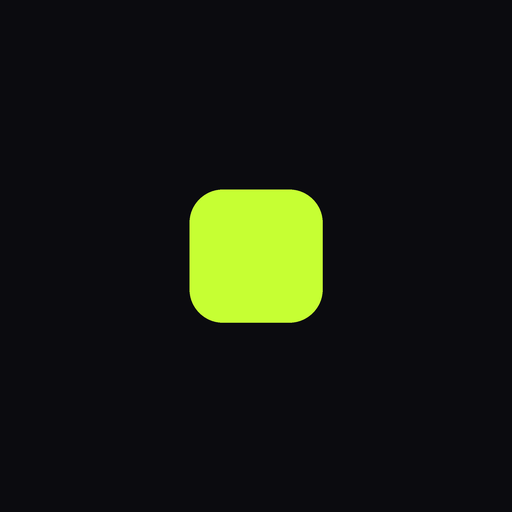
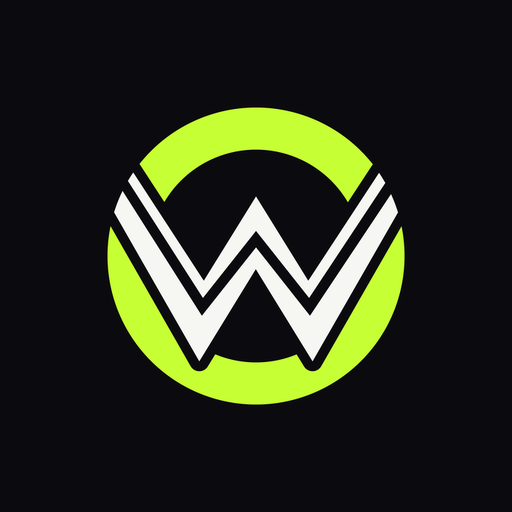
preview 10-21 18:21

Changed region(s): [[0.1875, 0.1875, 0.8125, 0.8125]]

diff --git a/OWCS KR 일정.html b/OWCS KR 일정.html
@@ -158,7 +158,7 @@ html[data-owcs-dark] .pill.done{background:#24242C}
 html[data-owcs-dark] .sc{box-shadow:inset 0 0 0 1px #2E2E37}
 html[data-owcs-dark] .eyebrow,html[data-owcs-dark] .day.today .dd b{color:#B89BFF}
 </style>
-<script src="./owcs-nav.js?v=1021154040"></script>
+<script src="./owcs-nav.js?v=1021182125"></script>
 </head>
 <body class="streams-page sched-page">
 <header><div class="wrap">
@@ -184,12 +184,12 @@ html[data-owcs-dark] .eyebrow,html[data-owcs-dark] .day.today .dd b{color:#B89BF
 </main>
 <footer class="owft"><div class="wrap ft-g"><div><div class="ft-logo"><span class="owt"><b>OW</b>TICKER</span></div><div class="ft-desc">OWCS 한국 경기의 일정, 결과, 선수 정보를 한국 팬을 위해 한곳에 모았어요.</div><div class="ft-ch"><span class="ft-k">OWCS 공식 채널</span><a href="https://x.com/OW_Esports_Asia" target="_blank" rel="noopener"><img src="assets/icons/x.png" alt="">X</a><a href="https://www.instagram.com/ow_esports_kr/" target="_blank" rel="noopener"><img src="assets/icons/instagram.png" alt="">Instagram</a><a href="https://www.sooplive.co.kr/station/owesports" target="_blank" rel="noopener"><img src="assets/icons/soop.png" alt="">SOOP 방송국</a></div></div><div><div class="ft-k">문의</div><a class="ft-mail" href="mailto:dlworhs26@gmail.com">dlworhs26@gmail.com</a></div><div class="ft-note">일정은 Liquipedia에서 10분마다 가져와요. 비공식 팬 사이트입니다. Blizzard Entertainment, WDG, 각 팀과 제휴하거나 승인받지 않았습니다. Overwatch®와 영웅 이미지는 Blizzard Entertainment, Inc.의 상표·저작물이고, 팀 로고와 선수 사진의 권리는 각 소유자에게 있으며 요청하면 바로 내립니다.</div></div></footer>
 
-<script src="./owcs-data.js?v=1021154040"></script>
-<script src="./owcs-phase.js?v=1021154040"></script>
-<script src="./owcs-i18n.js?v=1021154040"></script>
-<script src="./owcs-stats.js?v=1021154040"></script>
-<script src="./owcs-dark.js?v=1021154040"></script>
-<script src="./owcs-bracket.js?v=1021154040"></script>
+<script src="./owcs-data.js?v=1021182125"></script>
+<script src="./owcs-phase.js?v=1021182125"></script>
+<script src="./owcs-i18n.js?v=1021182125"></script>
+<script src="./owcs-stats.js?v=1021182125"></script>
+<script src="./owcs-dark.js?v=1021182125"></script>
+<script src="./owcs-bracket.js?v=1021182125"></script>
 <script>
 (function () {
   var D = window.OWCS || { teams: [], matches: [] };
@@ -391,6 +391,6 @@ html[data-owcs-dark] .eyebrow,html[data-owcs-dark] .day.today .dd b{color:#B89BF
   setTeam(F.team);
 })();
 </script>
-<script src="./owcs-theme-wise.js?v=1021154040"></script>
+<script src="./owcs-theme-wise.js?v=1021182125"></script>
 </body>
 </html>

diff --git a/OWCS KR 방송.html b/OWCS KR 방송.html
@@ -91,7 +91,7 @@ footer{padding:32px 0 56px;background:#0B0B0F;color:#8A8A93;font-size:13px;line-
   .who small,.go{display:none}
 }
 </style>
-<script src="./owcs-nav.js?v=1021154040"></script>
+<script src="./owcs-nav.js?v=1021182125"></script>
 </head>
 <body class="streams-page">
 <header><div class="wrap">
@@ -114,12 +114,12 @@ footer{padding:32px 0 56px;background:#0B0B0F;color:#8A8A93;font-size:13px;line-
 </main>
 <footer class="owft"><div class="wrap ft-g"><div><div class="ft-logo"><span class="owt"><b>OW</b>TICKER</span></div><div class="ft-desc">OWCS 한국 경기의 일정, 결과, 선수 정보를 한국 팬을 위해 한곳에 모았어요.</div><div class="ft-ch"><span class="ft-k">OWCS 공식 채널</span><a href="https://x.com/OW_Esports_Asia" target="_blank" rel="noopener"><img src="assets/icons/x.png" alt="">X</a><a href="https://www.instagram.com/ow_esports_kr/" target="_blank" rel="noopener"><img src="assets/icons/instagram.png" alt="">Instagram</a><a href="https://www.sooplive.co.kr/station/owesports" target="_blank" rel="noopener"><img src="assets/icons/soop.png" alt="">SOOP 방송국</a></div></div><div><div class="ft-k">문의</div><a class="ft-mail" href="mailto:dlworhs26@gmail.com">dlworhs26@gmail.com</a></div><div class="ft-note">방송 상태는 CHZZK·SOOP에서 몇 분마다 확인해요. 비공식 팬 사이트입니다. Blizzard Entertainment, WDG, 각 팀과 제휴하거나 승인받지 않았습니다. Overwatch®와 영웅 이미지는 Blizzard Entertainment, Inc.의 상표·저작물이고, 팀 로고와 선수 사진의 권리는 각 소유자에게 있으며 요청하면 바로 내립니다.</div></div></footer>
 
-<script src="./owcs-data.js?v=1021154040"></script>
-<script src="./owcs-datapoll.js?v=1021154040"></script>
-<script src="./owcs-phase.js?v=1021154040"></script>
-<script src="./owcs-i18n.js?v=1021154040"></script>
-<script src="./owcs-stats.js?v=1021154040"></script>
-<script src="./owcs-dark.js?v=1021154040"></script>
+<script src="./owcs-data.js?v=1021182125"></script>
+<script src="./owcs-datapoll.js?v=1021182125"></script>
+<script src="./owcs-phase.js?v=1021182125"></script>
+<script src="./owcs-i18n.js?v=1021182125"></script>
+<script src="./owcs-stats.js?v=1021182125"></script>
+<script src="./owcs-dark.js?v=1021182125"></script>
 <script>
 (function () {
   var D = window.OWCS || { teams: [], players: [], standings: [], live: {} };
@@ -187,6 +187,6 @@ footer{padding:32px 0 56px;background:#0B0B0F;color:#8A8A93;font-size:13px;line-
   }, 60000);
 })();
 </script>
-<script src="./owcs-theme-wise.js?v=1021154040"></script>
+<script src="./owcs-theme-wise.js?v=1021182125"></script>
 </body>
 </html>

diff --git a/OWCS KR Home v6.dc.html b/OWCS KR Home v6.dc.html
@@ -17,18 +17,18 @@
 <meta charset="utf-8">
 <meta name="viewport" content="width=device-width, initial-scale=1">
 <script>window.__resources = window.__resources || {};</script>
-<script src="./owcs-data.js?v=1021154040"></script>
-<script src="./owcs-datapoll.js?v=1021154040"></script>
-<script src="./owcs-phase.js?v=1021154040"></script>
-<script src="./owcs-i18n.js?v=1021154040"></script>
-<script src="./owcs-stats.js?v=1021154040"></script>
-<script src="./owcs-nav.js?v=1021154040"></script>
-<script src="./owcs-test.js?v=1021154040"></script>
-<script src="./owcs-maps.js?v=1021154040"></script>
-<script src="./owcs-bracket.js?v=1021154040"></script>
-<script src="./support.js?v=1021154040"></script>
-<script src="./owcs-theme.js?v=1021154040"></script>
-<script src="./owcs-theme-wise.js?v=1021154040"></script>
+<script src="./owcs-data.js?v=1021182125"></script>
+<script src="./owcs-datapoll.js?v=1021182125"></script>
+<script src="./owcs-phase.js?v=1021182125"></script>
+<script src="./owcs-i18n.js?v=1021182125"></script>
+<script src="./owcs-stats.js?v=1021182125"></script>
+<script src="./owcs-nav.js?v=1021182125"></script>
+<script src="./owcs-test.js?v=1021182125"></script>
+<script src="./owcs-maps.js?v=1021182125"></script>
+<script src="./owcs-bracket.js?v=1021182125"></script>
+<script src="./support.js?v=1021182125"></script>
+<script src="./owcs-theme.js?v=1021182125"></script>
+<script src="./owcs-theme-wise.js?v=1021182125"></script>
 <!-- Section reveal animation: fade-in + zoom-in-95 + slide-in-from-top-2 on each section's content.
      Only adds a temporary data attribute; section markup and styles are untouched. -->
 <style>

diff --git a/OWCS KR Results.dc.html b/OWCS KR Results.dc.html
@@ -16,18 +16,18 @@
 <meta charset="utf-8">
 <meta name="viewport" content="width=device-width, initial-scale=1">
 <script>window.__resources = window.__resources || {};</script>
-<script src="./owcs-data.js?v=1021154040"></script>
-<script src="./owcs-phase.js?v=1021154040"></script>
-<script src="./owcs-i18n.js?v=1021154040"></script>
-<script src="./owcs-stats.js?v=1021154040"></script>
-<script src="./owcs-nav.js?v=1021154040"></script>
-<script src="./owcs-dark.js?v=1021154040"></script>
-<script src="./owcs-test.js?v=1021154040"></script>
-<script src="./owcs-maps.js?v=1021154040"></script>
-<script src="./owcs-bracket.js?v=1021154040"></script>
-<script src="./support.js?v=1021154040"></script>
-<script src="./owcs-theme.js?v=1021154040"></script>
-<script src="./owcs-theme-wise.js?v=1021154040"></script>
+<script src="./owcs-data.js?v=1021182125"></script>
+<script src="./owcs-phase.js?v=1021182125"></script>
+<script src="./owcs-i18n.js?v=1021182125"></script>
+<script src="./owcs-stats.js?v=1021182125"></script>
+<script src="./owcs-nav.js?v=1021182125"></script>
+<script src="./owcs-dark.js?v=1021182125"></script>
+<script src="./owcs-test.js?v=1021182125"></script>
+<script src="./owcs-maps.js?v=1021182125"></script>
+<script src="./owcs-bracket.js?v=1021182125"></script>
+<script src="./support.js?v=1021182125"></script>
+<script src="./owcs-theme.js?v=1021182125"></script>
+<script src="./owcs-theme-wise.js?v=1021182125"></script>
 </head>
 <body>
 <x-dc>

diff --git a/OWCS KR Player.dc.html b/OWCS KR Player.dc.html
@@ -16,16 +16,16 @@
 <meta charset="utf-8">
 <meta name="viewport" content="width=device-width, initial-scale=1">
 <script>window.__resources = window.__resources || {};</script>
-<script src="./owcs-data.js?v=1021154040"></script>
-<script src="./owcs-phase.js?v=1021154040"></script>
-<script src="./owcs-i18n.js?v=1021154040"></script>
-<script src="./owcs-stats.js?v=1021154040"></script>
-<script src="./owcs-nav.js?v=1021154040"></script>
-<script src="./owcs-dark.js?v=1021154040"></script>
-<script src="./owcs-test.js?v=1021154040"></script>
-<script src="./support.js?v=1021154040"></script>
-<script src="./owcs-theme.js?v=1021154040"></script>
-<script src="./owcs-theme-wise.js?v=1021154040"></script>
+<script src="./owcs-data.js?v=1021182125"></script>
+<script src="./owcs-phase.js?v=1021182125"></script>
+<script src="./owcs-i18n.js?v=1021182125"></script>
+<script src="./owcs-stats.js?v=1021182125"></script>
+<script src="./owcs-nav.js?v=1021182125"></script>
+<script src="./owcs-dark.js?v=1021182125"></script>
+<script src="./owcs-test.js?v=1021182125"></script>
+<script src="./support.js?v=1021182125"></script>
+<script src="./owcs-theme.js?v=1021182125"></script>
+<script src="./owcs-theme-wise.js?v=1021182125"></script>
 <script>
 // mobile/tablet Instagram carousel: one post per screen, swipe (scroll-snap) or the ‹ › buttons on the photo's sides
 (function () {

diff --git a/OWCS KR 직관.html b/OWCS KR 직관.html
@@ -156,7 +156,7 @@ body.ticket-page footer{background:#0B0B0F;color:#8A8A93;border:0}
   #schedule td.mv{grid-area:3/1/4/3}
 }
 </style>
-<script src="./owcs-nav.js?v=1021154040"></script>
+<script src="./owcs-nav.js?v=1021182125"></script>
 </head>
 <body class="ticket-page">
 <header><div class="wrap">
@@ -422,13 +422,13 @@ function draw() {
 }
 draw();
 </script>
-<script src="./owcs-data.js?v=1021154040"></script>
-<script src="./owcs-datapoll.js?v=1021154040"></script>
-<script src="./owcs-phase.js?v=1021154040"></script>
-<script src="./owcs-i18n.js?v=1021154040"></script>
-<script src="./owcs-stats.js?v=1021154040"></script>
-<script src="./owcs-dark.js?v=1021154040"></script>
-<script src="./owcs-theme-wise.js?v=1021154040"></script>
+<script src="./owcs-data.js?v=1021182125"></script>
+<script src="./owcs-datapoll.js?v=1021182125"></script>
+<script src="./owcs-phase.js?v=1021182125"></script>
+<script src="./owcs-i18n.js?v=1021182125"></script>
+<script src="./owcs-stats.js?v=1021182125"></script>
+<script src="./owcs-dark.js?v=1021182125"></script>
+<script src="./owcs-theme-wise.js?v=1021182125"></script>
 <script>
 // owcs-data.js loads after the first paint: redraw with its playoff days, start times and matchups
 if (window.OWCS) draw();

diff --git a/index.html b/index.html
@@ -12,7 +12,7 @@ iframe{border:0;transform-origin:0 0;display:block}
 </style></head><body>
 <header><span id="pages"></span>
 <select id="lang"><option value="">언어: 그대로</option><option value="ko">한국어</option><option value="ja">日本語</option><option value="en">English</option><option value="zh">中文</option></select>
-<button id="reload">새로고침</button><span class="note">미리보기 사이트 · 10-21 15:40 올림 · 진짜 사이트에 아직 안 올라간 수정 포함</span></header>
+<button id="reload">새로고침</button><span class="note">미리보기 사이트 · 10-21 18:21 올림 · 진짜 사이트에 아직 안 올라간 수정 포함</span></header>
 <main id="devs"></main>
 <script>
 const PAGES = [["홈", "OWCS KR Home v6.dc.html"], ["일정", "OWCS KR 일정.html"], ["결과", "OWCS KR Results.dc.html"], ["선수", "OWCS KR Player.dc.html"], ["방송", "OWCS KR 방송.html"], ["직관", "OWCS KR 직관.html"]], SIZES = [["PC", 1440, 900], ["태블릿", 768, 1024], ["모바일", 375, 812]];

diff --git a/owcs-nav.js b/owcs-nav.js
@@ -66,7 +66,10 @@
   var hst = document.createElement('style');
   // wordmark: italic caps, OW in lime (darker lime on the light header so it stays readable)
   var owt = '.owt{font-style:italic;letter-spacing:.02em;padding-right:.06em}.owt b{font-weight:inherit;color:var(--owt,#6E8F14)}' +
-    'html[data-owcs-dark] .owt b{color:#C6FF33}';
+    'html[data-owcs-dark] .owt b{color:#C6FF33}' +
+    // the logo mark: every page's header tile (a dark square with a lime dot, inline on some pages) drawn as the round logo
+    'a:has(> span .owt) > :first-child:not(span),[data-owcs-mtop] .mk{background:url(assets/app/logo-badge.svg) center/contain no-repeat !important;border-radius:50% !important}' +
+    'a:has(> span .owt) > :first-child:not(span) > *,a:has(> span .owt) > :first-child:not(span):after,[data-owcs-mtop] .mk > *{display:none !important}';
   // shared footer (same as the home page): wordmark + channels | contact | notes, on the paper sheet, a hairline on top
   var F = 'html body footer.owft';
   var ft = [
